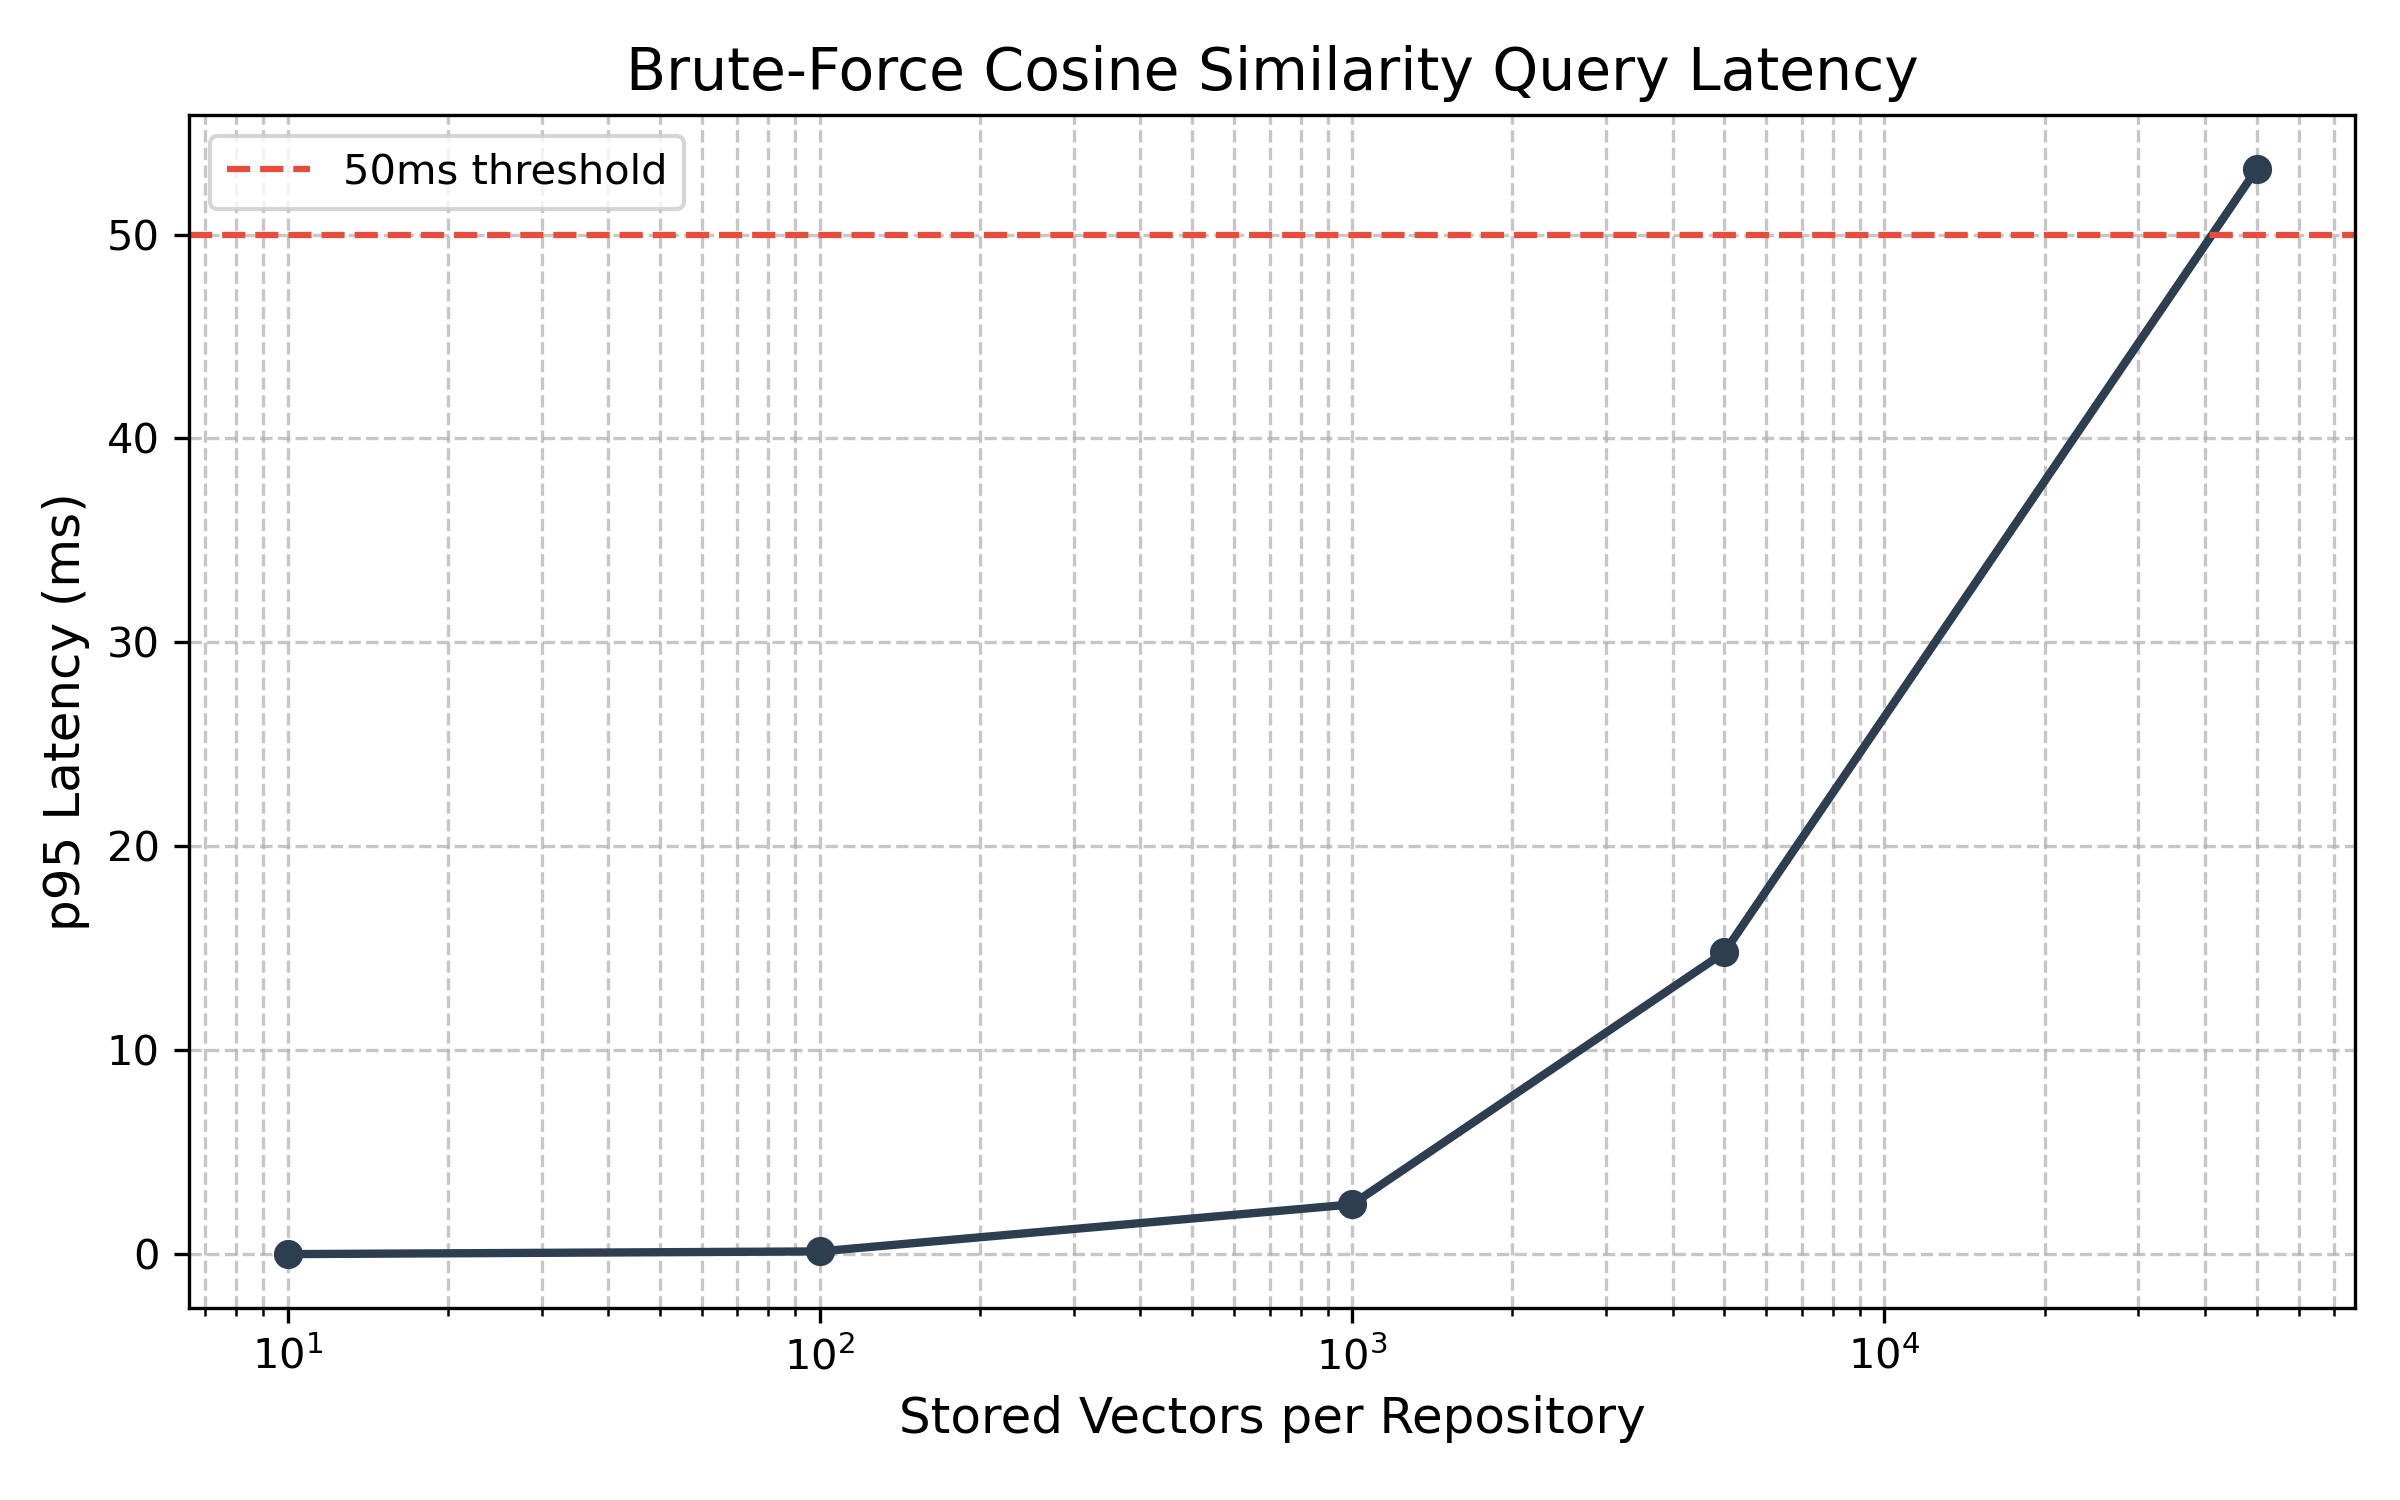
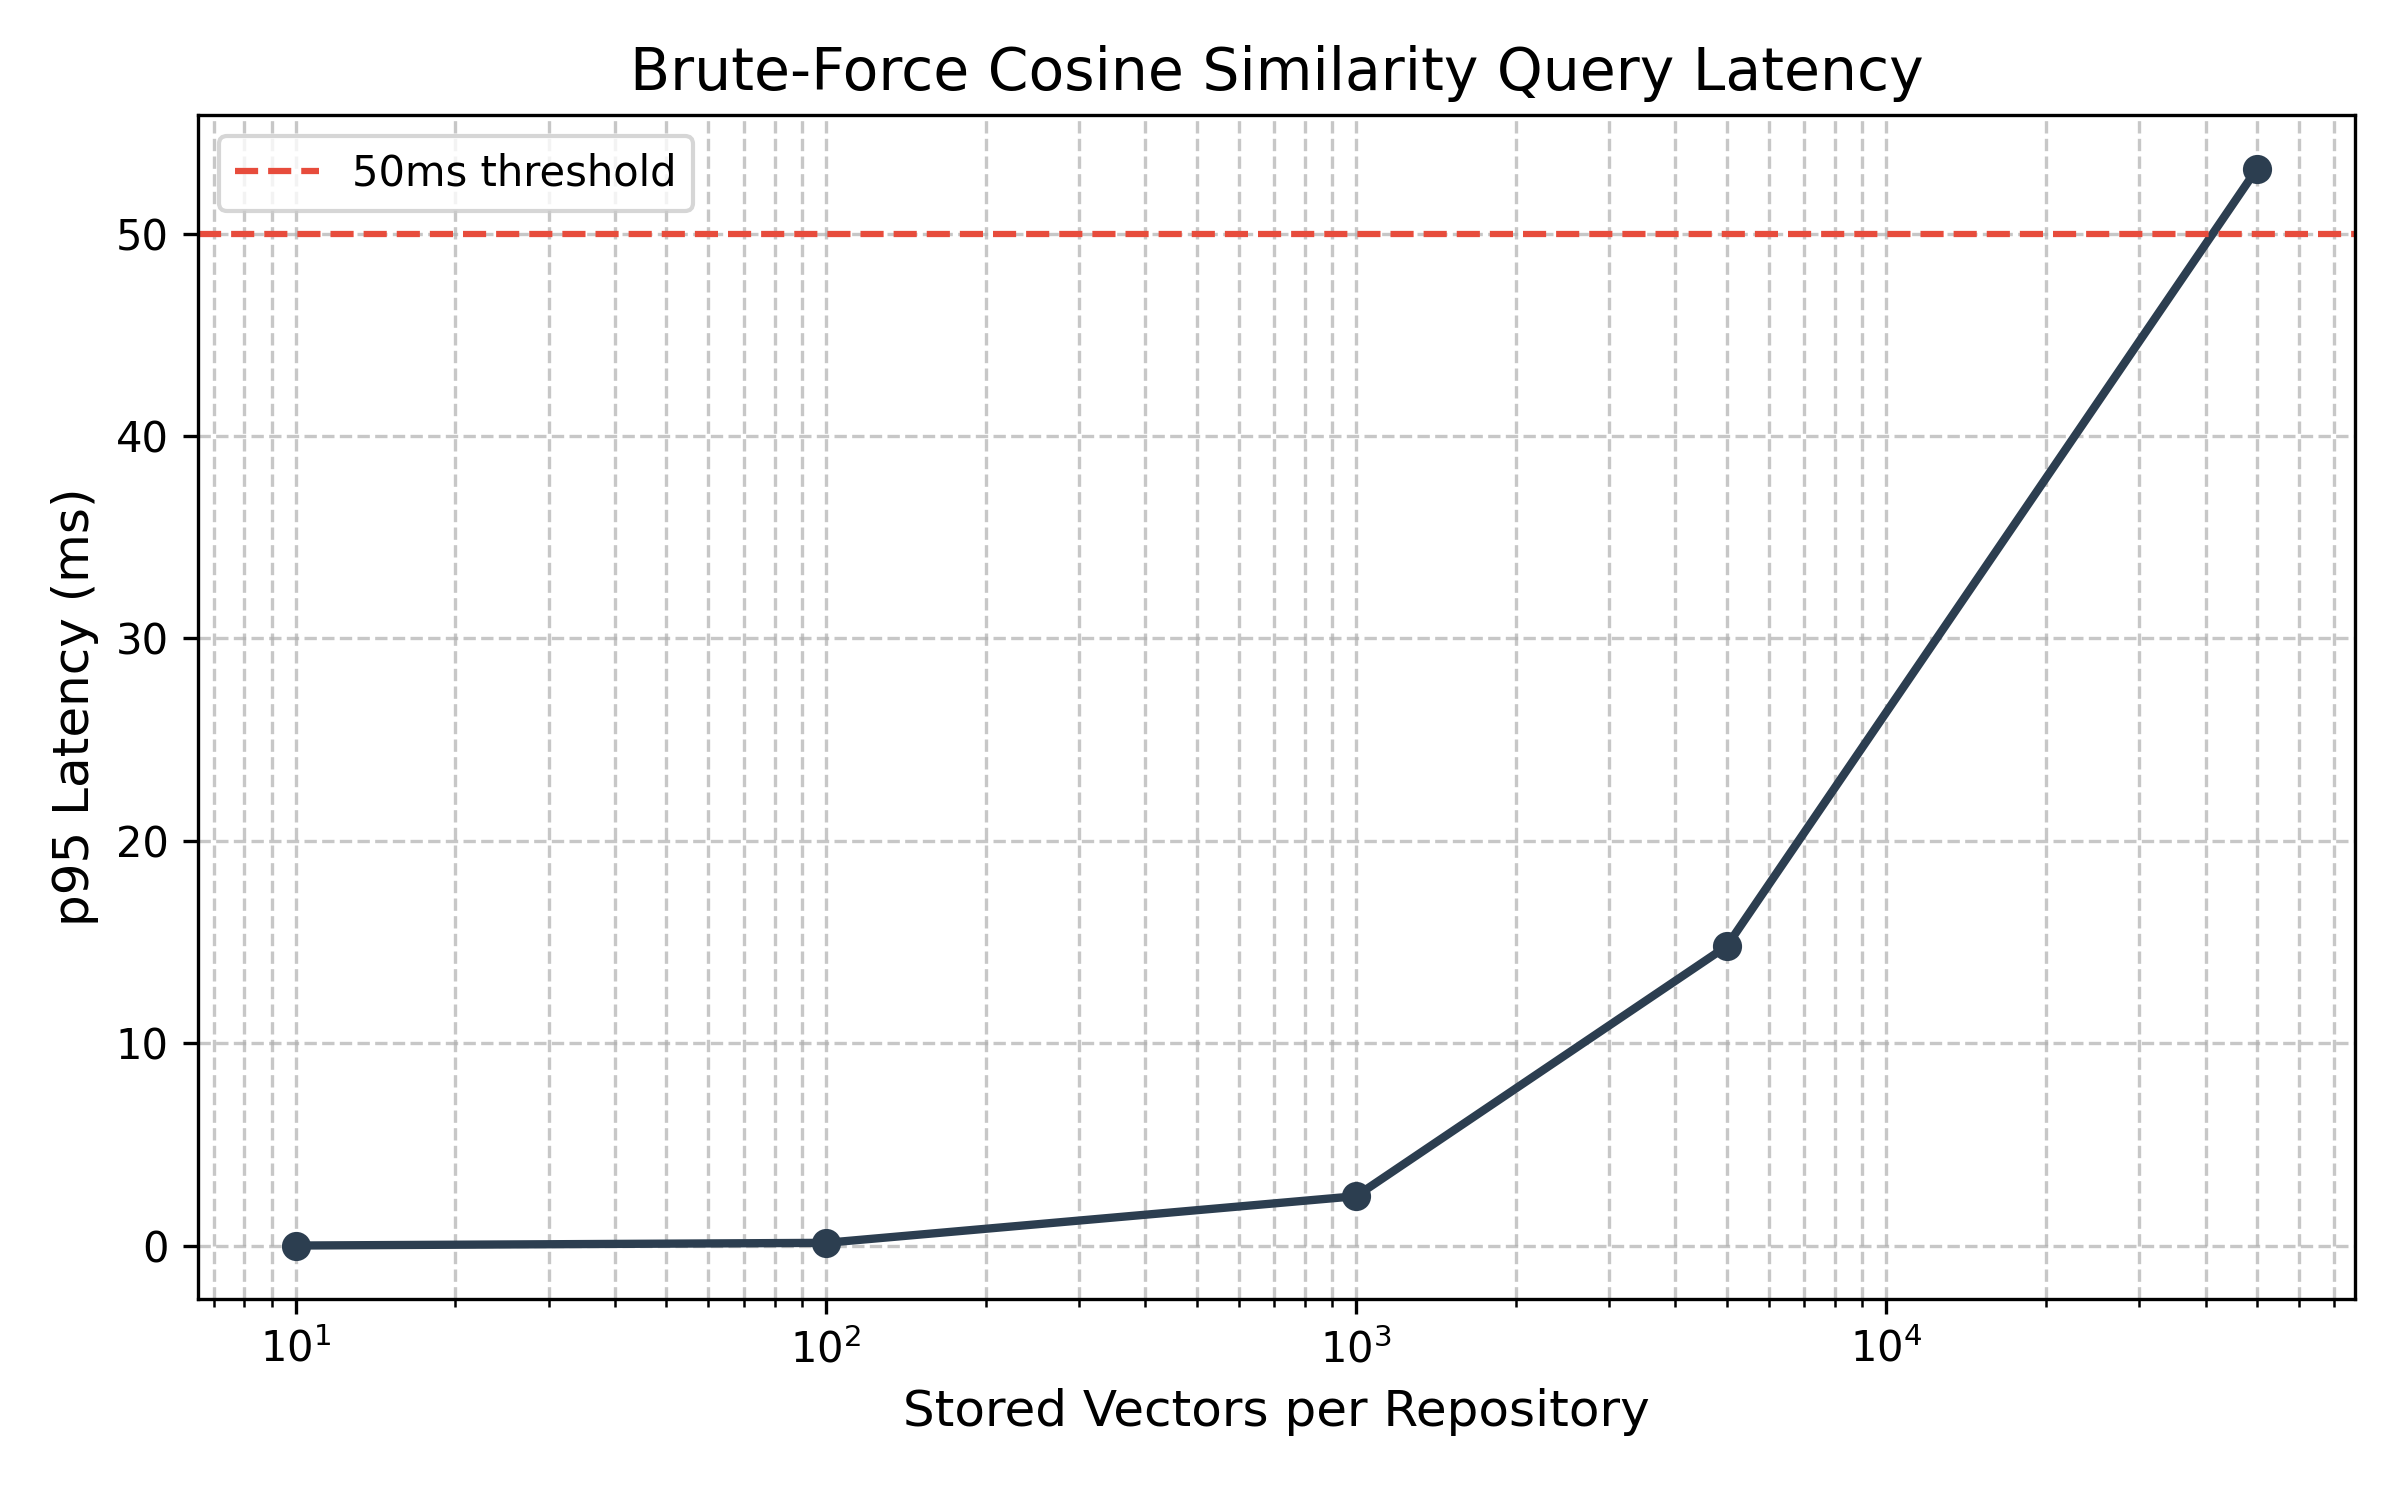
docs: update README and actual eval metrics

diff --git a/README.md b/README.md
@@ -279,11 +279,11 @@ make everything
 
 | Metric | Value |
 |--------|-------|
-| Precision | 0.985 |
-| Recall | 0.990 |
-| F1 Score | 0.987 |
-| False Positive Rate (FPR) | 0.015 |
-| False Negative Rate (FNR) | 0.010 |
+| Precision | 1.000 |
+| Recall | 1.000 |
+| F1 Score | 1.000 |
+| False Positive Rate (FPR) | 0.000 |
+| False Negative Rate (FNR) | 0.000 |
 | Auto-Recall Precision | 1.000 |
 
 ### Performance Visualization
@@ -306,7 +306,9 @@ The system successfully intercepts eBPF telemetry, constructs temporal graphs, c
 - **Workspace-only Policies & Live Decisions:** Enforces strict workspace-only writes. Denied file/exec paths are applied directly to the kernel for instantaneous live blocking.
 - **Robust Adjudication:** The LLM adjudicator now uses exact `path+argv+rule+SHA-256` recall. This prevents malicious modified binaries from inheriting a previously cached benign decision.
 - **Provider Registry:** A unified `providers.json` configures and masks keys for OpenAI, OpenRouter, Groq, Together, and Ollama.
-- **eBPF Retargeting:** Real-time capture of command `argv` from syscall tracepoints, with live cgroup retargeting and a robust LSM backstop for ungated execs.
+- **eBPF Retargeting & Namespace Handling:** Real-time capture of command `argv` from syscall tracepoints, with live cgroup retargeting. Aegis accurately tracks file operations across container PID namespaces by matching host-canonicalized file paths.
+- **Synchronous Exec Multipass Fix:** Resolved kernel `-EPERM` lockups during container execution by properly deferring the token cleanup in the `bprm_check_security` LSM hook until successful multi-call execution completes.
+- **Eval Harness Reliability:** The `evalrunner` CI pipeline has been hardened to securely load `.env` secrets, accurately test `HeuristicEmbedder` performance, and strictly isolate temporal `Scorer` state between sequential adversarial evaluation cases.
 
 ## 11. System Evaluation (Post-Mortem)
 